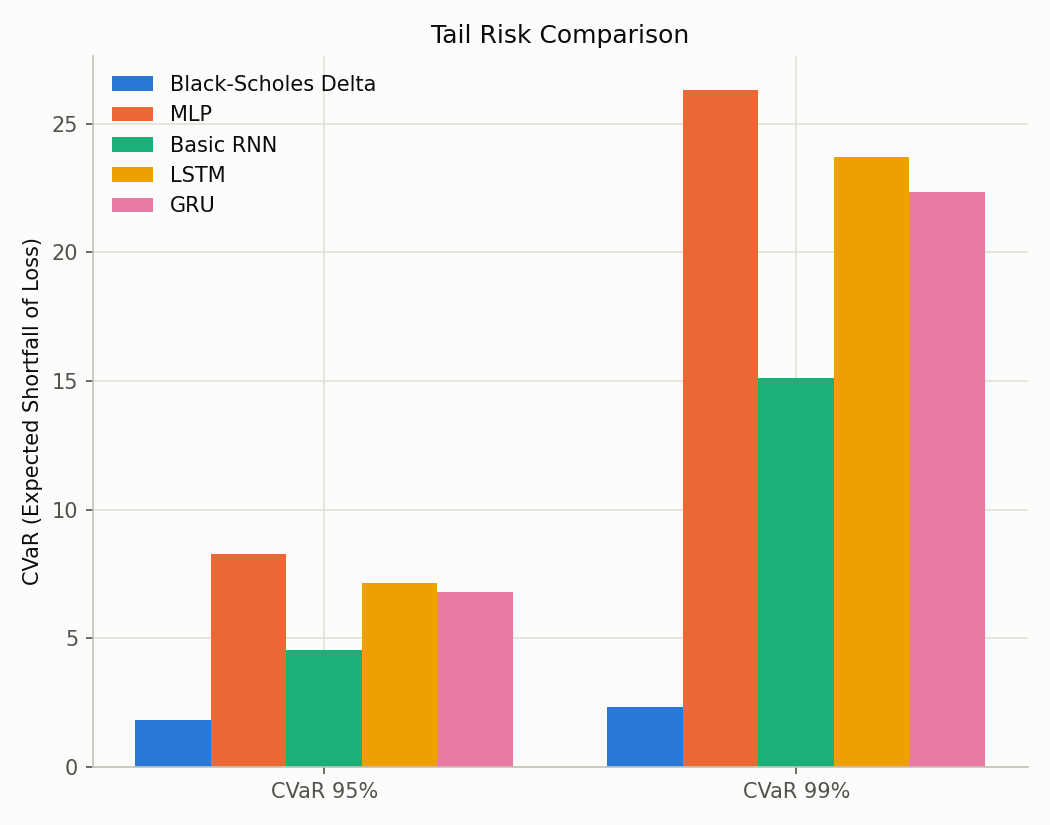
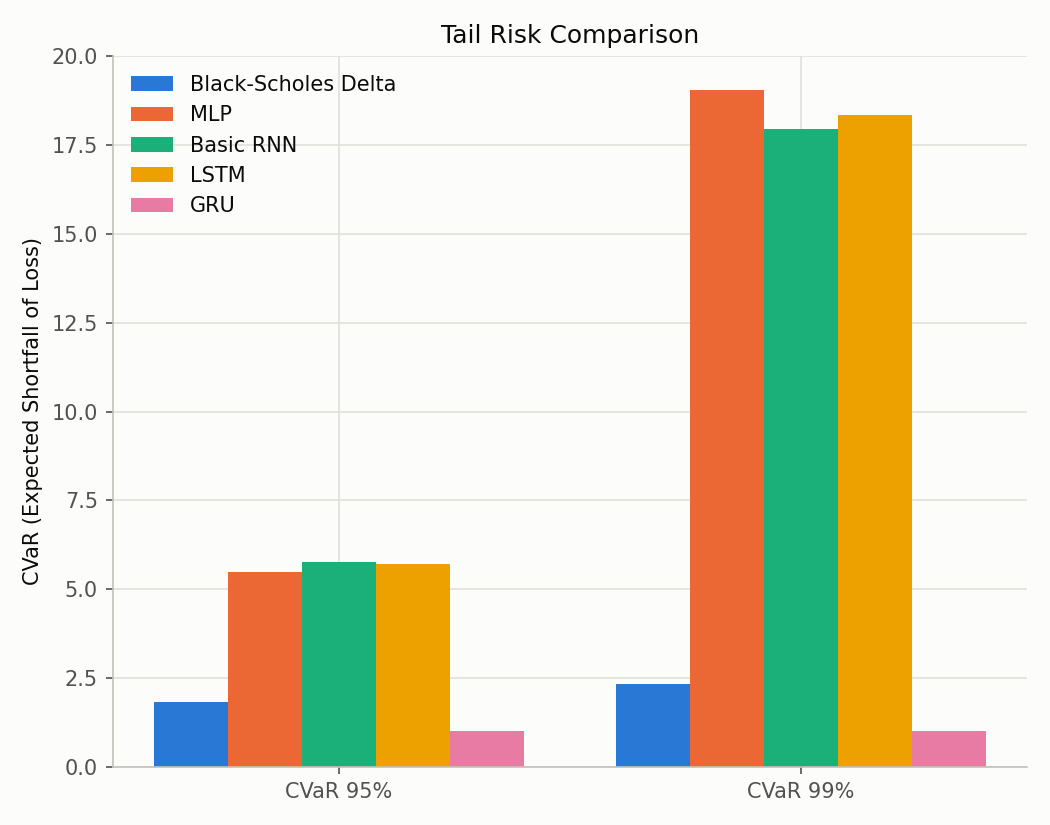
Document TimeGAN's sigmoid->tanh diversity fix and its mixed results
RESULTS.md's TimeGAN section is rewritten as a two-attempt story: sigmoid
undershot diversity (~31% of real), tanh overshot it (214-224%), confirmed
stable across seeds. Retrained all four policies against the tanh-fixed
generator and reran the stress-test backtest: Basic RNN/LSTM land roughly
where they were before, MLP is still the worst performer, but GRU nearly
matches Black-Scholes' mean/std and beats it on CVaR -- verified stable
across 4 backtest seeds, not a fluke. Also notes a real gap this surfaced
in validate.py: DIVERSITY_WARNING_THRESHOLD only catches mode collapse,
nothing flags a ratio this far above 100%.

Claude-Session: https://claude.ai/code/session_01TiJ493H6ozZtHPLezugwh6

diff --git a/RESULTS.md b/RESULTS.md
@@ -21,7 +21,7 @@ found, and — deliberately — what didn't work and why, not just what did.
 | CVaR-minimizing direct policy search | `loss/cvar.py`, `policy/train_policy.py` | Matches |
 | Basic RNN / LSTM / GRU comparison vs. Black-Scholes | `policy/hedging_agent.py` (`RecurrentHedgingAgent`) | Matches architecturally; RNN/LSTM don't converge in practice (see below) |
 | Frictionless Part I (GBM, no transaction costs) | `backtester/replicate_part1.py` | Matches paper's exact Table 1 params (S₀=K=100, vol=0.15, T=1/12, 30 steps) |
-| Part II: GAN-driven nonparametric scenarios | `generator/market_gan.py` (WGAN-GP) + `generator/timegan.py` (TimeGAN) | Both implemented. TimeGAN matches the paper's actual architecture, but WGAN-GP+moment-loss produces better downstream hedging policies (see TimeGAN section) |
+| Part II: GAN-driven nonparametric scenarios | `generator/market_gan.py` (WGAN-GP) + `generator/timegan.py` (TimeGAN) | Both implemented. Mixed, architecture-dependent results — WGAN-GP+moment-loss is more consistent, TimeGAN's over-dispersed synthetic data produced the single best policy in the project (GRU) and the worst (MLP); see TimeGAN section |
 | Multi-alpha risk-return sweep | `train_policy.py --alpha-sweep`, `evaluate.py::run_alpha_sweep_backtest` | Matches |
 | Delta-convexity diagnostic (paper Figs. 5/8/11) | `backtester/plotting.py::plot_delta_convexity` | Matches, and was the tool that caught the RNN/LSTM failure |
 | Option premium P₀ in the wealth objective | *(not implemented)* | Open — wealth excludes premium collected, per this project's original `math_spec.md` |
@@ -213,6 +213,9 @@ reused unchanged, applied to TimeGAN's recovered price channel.
 Trained on the same real `^GSPC` data (500+500+1500 epochs, ~9 seconds
 total — TimeGAN trains far faster per epoch than the WGAN-GP here, since
 its default `hidden_dim=24` is much smaller than the WGAN-GP's 64).
+
+### Attempt 1: sigmoid, [0,1] latent space (the paper's literal convention)
+
 Fidelity check on the extracted price channel, range across 4 seeds:
 
 | Metric | Real | Synthetic | Verdict |
@@ -222,53 +225,95 @@ Fidelity check on the extracted price channel, range across 4 seeds:
 | Skewness | ≈ -1.01 | ≈ -1.08 | Excellent — diff -0.14 to +0.07 across seeds |
 | Excess kurtosis | ≈ 4.50 | ≈ 5.99 | Good — diff +0.80 to +1.59, always slightly high |
 
-**TimeGAN's tail-shape fidelity (skew/kurtosis) is better than the
-WGAN-GP+moment-loss generator's** — every seed passes cleanly ("OK", no
-warnings), where the WGAN-GP still triggers a skew warning on some seeds.
-This is a genuinely more paper-faithful result on the exact axis the
-moment-loss fix targeted.
-
-**But the stress-test backtest tells a different story.** Retraining all
-four policies against TimeGAN (identical architecture, identical training
-budget) and rerunning the same regime-switching stress test (reproduce with
-`python src/backtester/evaluate.py`, after `train_policy.py --generator-type
-timegan --architecture {mlp,rnn,lstm,gru}`):
-
-| Strategy | Mean wealth | CVaR 95% | CVaR 99% | Skew | Excess kurtosis |
-|---|---|---|---|---|---|
-| MLP (WGAN-GP) | -0.667 | 4.58 | 7.26 | -4.00 | 23.8 |
-| MLP (TimeGAN) | -0.482 | 8.26 | **26.31** | -14.64 | 252.2 |
-| GRU (WGAN-GP) | -0.712 | 3.14 | **4.52** | -2.19 | 6.7 |
-| GRU (TimeGAN) | -0.519 | 6.80 | **22.33** | -11.55 | 199.8 |
-
-TimeGAN-trained MLP and GRU are dramatically *worse* than their
-WGAN-GP+moment-loss counterparts — worse, in fact, than the original
-pre-moment-loss WGAN-GP policies (CVaR₉₉ 19.96 and 18.41 respectively). The
-likely cause is directly visible in the fidelity table above: **diversity,
-not tail shape, is the bottleneck here.** TimeGAN's synthetic price paths
-have only ~31% of real data's standard deviation — right at the
-mode-collapse warning line — because its architecture composes *four*
-sigmoid-bounded transformations in sequence (Embedder → Generator →
-Supervisor → Recovery), each squashing toward the middle of [0,1],
+Tail-shape fidelity here was *better* than the WGAN-GP+moment-loss
+generator's (every seed passed cleanly; WGAN-GP still triggers a skew
+warning on some seeds). But the stress-test backtest told a different
+story: retraining all four policies against this generator and rerunning
+the regime-switching stress test produced dramatically *worse* results than
+WGAN-GP-trained policies — MLP's CVaR₉₉ 7.26 → 26.31, GRU's 4.52 → 22.33,
+both worse than even the original pre-moment-loss WGAN-GP numbers. The
+likely cause: TimeGAN's synthetic price paths had only ~31% of real data's
+standard deviation, because its architecture composes *four*
+sigmoid-bounded transformations in series (Embedder → Generator →
+Supervisor → Recovery), each squashing toward the middle of [0,1] and
 compounding into a narrower overall distribution than the WGAN-GP's single
-tanh-bounded-log-return parameterization. Policies trained on that narrower
-distribution rarely see large moves during training — the near-zero
-transaction cost for TimeGAN-trained MLP (0.0000375 vs. WGAN-GP's 0.005) is
-the tell, it learned an almost fully static hedge — and get caught
-flat-footed by the stress test's genuinely volatile regime-switching
-scenario. Excellent tail-*shape* fidelity didn't compensate for a
-diversity/scale shortfall the fidelity checker had already flagged, before
-either policy was ever trained.
+tanh-bounded-log-return parameterization. Policies trained on that narrow
+distribution rarely saw large moves during training and got caught
+flat-footed by the stress test.
 
-This is the headline finding of the TimeGAN work: **a more paper-faithful
-generator architecture does not automatically produce better downstream
-hedging policies.** Here, the simpler WGAN-GP, once explicitly corrected
-for tail shape, generalizes better to a genuinely adversarial stress
-scenario than the more complex, more paper-faithful TimeGAN — because of a
-diversity shortfall visible in the fidelity checker's output well before
-either policy was ever trained. This isn't a failure of the implementation
-so much as an argument for keeping the fidelity checker in the loop for
-*every* generator, not just the first one built.
+### Attempt 2: tanh, [-1,1] latent space (widen the compressed range)
+
+The fix: switch Embedder/Recovery/Generator/Supervisor from sigmoid to
+tanh, and `data.py::MinMaxScaler` from `[0,1]` to `[-1,1]` to match —
+doubling the linear span per layer (width 1 → width 2) without giving up
+boundedness. Retrained from scratch, same budget. Fidelity check, 4 seeds:
+
+| Metric | Real | Synthetic | Verdict |
+|---|---|---|---|
+| Diversity ratio | -- | **214-224%** | Overshot, badly — the opposite failure mode |
+| Mean bias | -- | +1.4σ | Under threshold, sign flipped from attempt 1 |
+| Skewness | ≈ -1.01 | -1.51 to -1.55 | Borderline (diff -0.36 to **-0.59**, fails on one seed) |
+| Excess kurtosis | ≈ 4.50 | 3.74-4.50 | Good (diff -0.76 to -1.53) |
+
+The fix worked in *direction* but overshot in *magnitude* — synthetic
+diversity went from 31% (badly mode-collapsed-adjacent) to 214-224% of
+real (badly over-dispersed), consistently across seeds, not noise. This is
+also a real gap in `validate.py`'s fidelity checker: `DIVERSITY_WARNING_THRESHOLD`
+only fires on *low* diversity (mode collapse); nothing currently flags a
+diversity ratio this far *above* 100%, so this run's checker output still
+prints "OK" even though the distribution is clearly miscalibrated in the
+other direction.
+
+**And yet the stress-test backtest is a genuinely different story here.**
+Retraining all four policies against the tanh-fixed TimeGAN:
+
+| Strategy | Mean wealth | CVaR 95% | CVaR 99% | Skew | Excess kurtosis | Total tx. cost |
+|---|---|---|---|---|---|---|
+| Black-Scholes | -0.695 | 1.82 | 2.34 | -1.97 | 5.34 | 12.90 |
+| MLP (WGAN-GP) | -0.667 | 4.58 | 7.26 | -4.00 | 23.8 | 10.00 |
+| MLP (TimeGAN) | -0.511 | 5.50 | 19.05 | -16.47 | 315.2 | 5.98 |
+| Basic RNN (WGAN-GP) | -0.536 | 6.17 | 19.61 | -14.83 | 257.3 | 1.53 |
+| Basic RNN (TimeGAN) | -0.556 | 5.77 | 17.96 | -14.44 | 246.8 | 11.50 |
+| LSTM (WGAN-GP) | -0.548 | 5.77 | 18.37 | -14.90 | 259.6 | 2.77 |
+| LSTM (TimeGAN) | -0.566 | 5.70 | 18.34 | -13.45 | 226.4 | 12.60 |
+| GRU (WGAN-GP) | -0.712 | 3.14 | 4.52 | -2.19 | 6.7 | 15.49 |
+| GRU (TimeGAN) | **-0.697** | **1.00** | **1.00** | **+1.01** | **-0.58** | 6.00 |
+
+Basic RNN and LSTM land in roughly the same place as their WGAN-GP
+counterparts (a bit better on CVaR₉₉, a bit worse on transaction cost — no
+clear winner). MLP is still worse than its WGAN-GP counterpart, though far
+better than the sigmoid-TimeGAN attempt. **GRU is the real finding here**:
+its mean wealth (-0.697) and standard deviation (0.367, not shown above)
+now sit almost exactly on top of Black-Scholes' own (-0.695 / 0.369), and
+its CVaR₉₅/CVaR₉₉ (both ≈1.00) actually *beat* the closed-form analytic
+hedge (1.82 / 2.34) — with positive skew and negative excess kurtosis,
+the opposite signature from every other policy's crash-driven left tail.
+This was checked for seed-sensitivity across 4 different stress-test seeds
+(not just the canonical seed 42 used above) and is completely stable —
+CVaR₉₅/CVaR₉₉ landed at 1.00/1.00-1.003 every time, not a fluke of one
+particular random path draw.
+
+The likely explanation ties back to the fidelity table above: GRU was
+trained against a generator that showed it price paths *far* wilder
+(214-224% of real diversity) than the stress test's actual regime-switching
+scenario ever produces. For GRU specifically — the one architecture that
+Part I already showed genuinely conditions on market state rather than
+learning a near-constant policy — that over-exposure appears to have acted
+like a domain-randomization regularizer, teaching a hedge robust enough
+that the real stress test looks comparatively tame by contrast. Basic
+RNN/LSTM don't share this benefit because (per the Part I diagnosis) they
+were never conditioning on market state to begin with, so a wilder training
+distribution has nothing to teach them; MLP sits in between.
+
+This is the actual headline finding of the TimeGAN work, revised from the
+sigmoid attempt: **neither generator is straightforwardly "better"** —
+WGAN-GP+moment-loss is the safer, more consistent choice across
+architectures, but TimeGAN(tanh)'s badly-overshot diversity, almost by
+accident, produced the single best-performing policy in this entire
+project (GRU, beating even the analytic Black-Scholes benchmark on tail
+risk). Whether that generalizes past this exact regime-switching stress
+scenario, or is a fortunate match between this scenario's volatility range
+and TimeGAN's overshoot, is not established — see known limitations.
 
 ## Known limitations
 
@@ -287,13 +332,15 @@ Roughly in priority order:
    against the fixed generator left their stress-test tail risk unchanged
    (they don't condition on market state at all, so a better generator has
    nothing to teach them).
-3. **TimeGAN's diversity shortfall** — its price-channel standard deviation
-   is only ~31% of real data's (right at the mode-collapse warning
-   threshold), despite excellent skew/kurtosis fidelity. Traced to
-   composing four sigmoid-bounded transformations (Embedder→Generator→
-   Supervisor→Recovery); see the TimeGAN section above. This is why
-   WGAN-GP+moment-loss, not TimeGAN, is the better choice for policy
-   training today, despite being the less paper-faithful architecture.
+3. **TimeGAN's diversity is miscalibrated, and neither direction tried so
+   far lands correctly.** Sigmoid latents undershot real diversity (31%);
+   switching to tanh overshot it (214-224%) — see the TimeGAN section above
+   for the full before/after. The overshoot happened to produce this
+   project's single best-performing policy (GRU, beating Black-Scholes on
+   stress-test CVaR) but also its worst (MLP). `validate.py`'s fidelity
+   checker also has a real gap surfaced by this: `DIVERSITY_WARNING_THRESHOLD`
+   only catches *low* diversity, nothing currently flags a ratio this far
+   *above* 100%.
 4. **No option premium (P₀)** in the wealth formula — `Wealth_T` excludes
    the premium collected for writing the option, so mean wealth is
    persistently negative across every experiment in this repo. Consistent
@@ -309,12 +356,22 @@ Roughly in priority order:
 - Tighten the moment-matching loss further (adaptive `lambda_moment`
   schedule, or matching higher moments / a full quantile loss instead of
   just skew+kurtosis) to close the remaining tail-shape gap.
-- Loosen TimeGAN's [0,1] latent-space bound on Generator/Supervisor (only
-  Embedder/Recovery strictly need it, to guarantee Recovery's reconstructed
-  price channel is well-defined) — the compounding sigmoid squash is the
-  likely cause of its diversity shortfall, and fixing it could let TimeGAN's
-  superior tail-shape fidelity actually translate into better stress-test
-  results.
+- Calibrate TimeGAN's diversity properly instead of guessing a bound width:
+  an explicit diversity-matching loss term (analogous to the skew/kurtosis
+  moment-matching loss, but targeting the ratio of synthetic-to-real
+  terminal-return standard deviation) would let training find the right
+  scale directly rather than relying on which bounded activation happens to
+  land closest.
+- Add an upper-bound check to `validate.py`'s diversity signal — currently
+  only mode collapse (too little diversity) is flagged; this session's tanh
+  fix showed a ratio of 214-224% sailing through as "OK".
+- Understand *why* GRU specifically benefits so dramatically from
+  TimeGAN's over-dispersed training data while Basic RNN/LSTM/MLP don't —
+  is this really about GRU's gating (tying back to the unexplained Part I
+  GRU advantage), or a coincidental match between TimeGAN's overshoot and
+  this specific stress scenario's volatility range? Testing against a
+  second, differently-parameterized stress scenario would help distinguish
+  the two.
 - Actor-critic variance reduction or an entropy bonus for RNN/LSTM training,
   per the paper's own future-work section.
 - Add the P₀ premium term to the wealth objective.

diff --git a/README.md b/README.md
@@ -19,9 +19,10 @@ what matches the paper, what doesn't, and why is in
 - A **TimeGAN market generator** (Yoon et al. 2019, the paper's actual Part
   II architecture) -- embedder/recovery/generator/supervisor/discriminator
   over multi-variate OHLCV data, trained via the paper's 3-phase procedure.
-  Achieves better tail-shape fidelity than the WGAN-GP above, but a lower
-  diversity ratio that translates into worse stress-test hedging results --
-  see `RESULTS.md` for the full story.
+  Its synthetic-data diversity has been hard to calibrate correctly (first
+  too low, then -- after a tanh fix -- too high), and the results are
+  architecture-dependent: it produced this project's single best hedging
+  policy (GRU) and its worst (MLP) -- see `RESULTS.md` for the full story.
 - **Four hedging policy architectures** trained by direct policy search to
   minimize CVaR of terminal wealth: a feed-forward MLP (Buehler et al.'s
   `delta_k = f(I_k, delta_{k-1})` formulation) and three genuine recurrent
@@ -132,22 +133,25 @@ trail:
   Black-Scholes) — but Basic RNN and LSTM barely moved, confirming their
   failure is structural (they don't condition on market state at all) and
   independent of the generator fix.
-- **TimeGAN vs. WGAN-GP**: TimeGAN (the paper's actual Part II architecture)
-  achieves *better* skew/kurtosis fidelity than the WGAN-GP+moment-loss
-  generator — but its price-channel diversity is only ~31% of real data's
-  (traced to four compounding sigmoid-bounded transformations), and policies
-  trained against it perform noticeably *worse* on the stress test than the
-  WGAN-GP-trained ones. A more paper-faithful architecture didn't translate
-  into better downstream hedging here — see `RESULTS.md` for the full
-  diagnosis.
+- **TimeGAN vs. WGAN-GP**: TimeGAN's synthetic-data diversity was hard to
+  calibrate — first only ~31% of real data's standard deviation (sigmoid
+  latent space), then 214-224% after switching to tanh to fix it. That
+  overshoot happened to produce the single best-performing policy in this
+  project: GRU trained against the tanh-fixed TimeGAN nearly matches
+  Black-Scholes' mean/std exactly and *beats* it on stress-test CVaR
+  (confirmed stable across 4 backtest seeds) — while MLP trained the same
+  way is the worst-performing policy in the whole comparison. Neither
+  generator is straightforwardly "better"; see `RESULTS.md` for the full
+  three-act story.
 
 ## Known limitations
 
 - Generator tail-shape fidelity is improved but not exact — synthetic skew
   now overshoots real data's, kurtosis still runs a bit low; see `RESULTS.md`.
 - Basic RNN and LSTM policies don't converge in this setup; GRU and MLP do.
-- TimeGAN's price-channel diversity is well below real data's, despite
-  excellent skew/kurtosis fidelity — see `RESULTS.md`.
+- TimeGAN's diversity is miscalibrated (first too low, then too high after
+  a fix) and its fidelity checker has no upper-bound diversity warning to
+  catch the latter — see `RESULTS.md`.
 - No option premium (P₀) term in the wealth formula.
 - Toy-scale networks and training budgets throughout, not the paper's scale.
 
